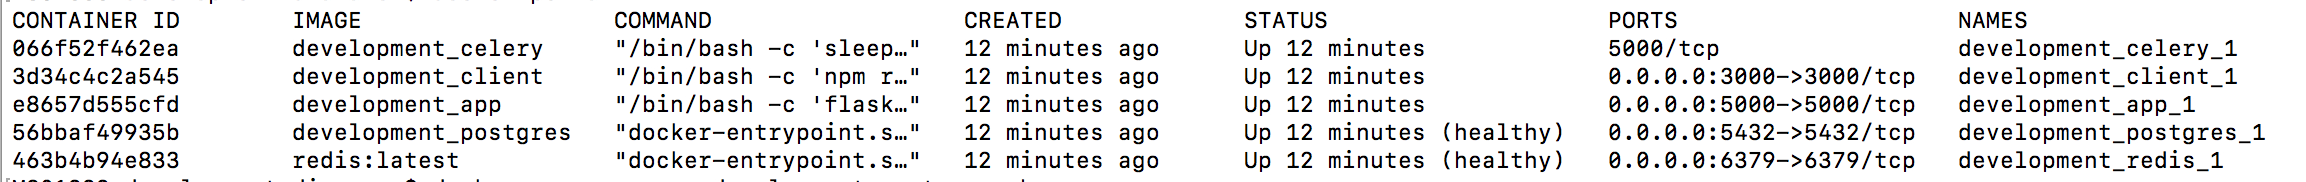
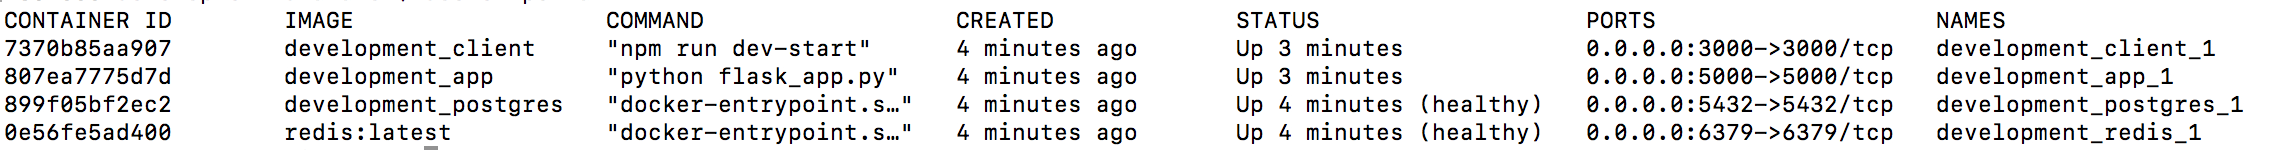
updated README.md, changed docker-compose-prod to remove npm build

diff --git a/README.md b/README.md
@@ -4,6 +4,8 @@ A full-stack dockerized web application to visualize Formula 1 race statistics f
 
 ## Hosted at: www.notforcasualfans.com
 
+![mystack](https://github.com/dianaow/celery-scheduler/blob/master/misc/mystack.png) 
+
 ## Data Source
 - Thanks to the Ergast Developer API (https://ergast.com/mrd/), which provides data for the Formula 1 series and is updated after the conclusion of each race.
 
@@ -34,7 +36,7 @@ This way, we can leverage React for SVG structure and rendering optimizations an
 ## Setup
 This setup is built for deployment with Docker. 
 
-**1. Clone the repository**
+### **1. Clone the repository**
 
 ```bash
 cd ~
@@ -42,12 +44,12 @@ git clone https://github.com/dianaow/.git
 cd celery-scheduler
 ```
 
-**2. Install Docker**
+### **2. Install Docker**
 
 - [Mac or Windows](https://docs.docker.com/engine/installation/)
 - [Ubuntu server](https://www.digitalocean.com/community/tutorials/how-to-install-and-use-docker-on-ubuntu-16-04)
 
-**3. Build docker images with docker-compose and run it.**
+### **3. Build docker images with docker-compose and run it.**
 
   Configuration folder architecture:
   ```
@@ -85,54 +87,63 @@ cd celery-scheduler
   - --build: Build images before creating containers.
   
   
-**3a) Check logs for successful build and run of docker containers**
-  ```
+### **4) Check logs for successful build and run of docker containers**
+```
   docker-compose logs
-  ```
- Please refer to this repo's wiki for screenshots of what you should see from the console.
- 
-**3b) Loading database with data**
+```
 
- I am unable to succesfully use an entrypoint script to initialize database with data, hence the workaround will be to manually load data from command line instead.
+Please refer to this repo's wiki for screenshots of what you should see from the console.
  
- **i.** Check the list of running containers 
- ```
- docker ps -a
- ```
+### **5) Loading database with data**
 
- ![docker_compose_ps_a](https://github.com/dianaow/celery-scheduler/blob/master/misc/docker_compose_ps_a.png) 
+I am unable to succesfully use an entrypoint script to initialize database with data, hence the workaround will be to manually load data from command line instead.
+ 
+#### **a.** Check the list of running containers 
+```
+  docker ps -a
+```
 
- **ii.** To run bash command in docker container, enter ```docker exec -i -t <CONTAINER_ID> /bin/bash```
+![docker_compose_ps_a](https://github.com/dianaow/celery-scheduler/blob/master/misc/docker_compose_ps_a.png) 
+
+#### **b.** To run bash command in docker container, enter
+```
+  docker exec -i -t <CONTAINER_ID> /bin/bash
+```
  
-   &nbsp;&nbsp;&nbsp;&nbsp;&nbsp; In this case, run ```docker exec -i -t 56bbaf49935b /bin/bash``` (Note: my CONTAINER ID will be different from yours, so don't copy-paste)
+In this case, run ```docker exec -i -t 899f05bf2ec2 /bin/bash``` (Note: my CONTAINER ID will be different from yours)
  
- **iii.** Run below command to dump 'init.psql' to the database
+#### **c.** Run below command to dump 'init.psql' to the database
  
-   &nbsp;&nbsp;&nbsp;&nbsp;&nbsp; ```psql --host=localhost --port=5432 --username=test_user --password --dbname=f1_flask_db < ../init.psql```
+```psql --host=localhost --port=5432 --username=test_user --password --dbname=f1_flask_db < ../init.psql```
  
-   &nbsp;&nbsp;&nbsp;&nbsp;&nbsp; You will then be prompted for the password for test_user, which is **'test_pw'**
+You will then be prompted for the password for test_user, which is **'test_pw'**
  
- **iv.** Log into the database. Try querying it!
+#### **d.** Log into the database. Try querying it!
  
- ![docker_command_psql](https://github.com/dianaow/celery-scheduler/blob/master/misc/docker_command_psql.png) 
+![docker_command_psql](https://github.com/dianaow/celery-scheduler/blob/master/misc/docker_command_psql.png) 
  
  
-  **You may now point your browser to http://localhost:3000 to view the frontend**
-  **You may now point your browser to http://localhost:5000/api/results or view the APIs**
+**You may now point your browser to http://localhost:3000 to view the frontend**
+**You may now point your browser to http://localhost:5000/api/results or view the APIs**
 
 
- **3c) Initialize task scheduler with celery**
+### **6) Initialize task scheduler with celery**
  
-  &nbsp;&nbsp;&nbsp;&nbsp;&nbsp; **i.** Based on the last step, we should still be in 'development_postgresql' container. Exit from postgresql by entering '\q'. Exit from container by entering 'exit'. Next, identify the "development_app" container id and enter it (similar to steps 3b.1 and 3b.2).
+#### **a.** Based on the last step, we should still be in 'development_postgresql' container. Exit from postgresql by entering '\q'. Exit from container by entering 'exit'. Next, identify the "development_app" container id and enter it (similar to steps 3b.1 and 3b.2).
 
-  &nbsp;&nbsp;&nbsp;&nbsp;&nbsp; **ii.** Trigger the below command: ```celery -A app.tasks worker -B -l info```
+#### **b.** Trigger the below command: 
+```
+  celery -A app.tasks worker -B -l info
+```
   
-  &nbsp;&nbsp;&nbsp;&nbsp;&nbsp; That's it! For testing purpose, i have set celerybeat to trigger task to data collect every 15 minutes.
+That's it! For testing purpose, i have set celerybeat to trigger task to data collect every 15 minutes.
 
- **4) To stop running of docker containers and remove them**
-  ```
+### **7) To stop running of docker containers and remove them**
+```
   docker-compose down
-  ```
+```
+
+![docker_compose_down](https://github.com/dianaow/celery-scheduler/blob/master/misc/docker_compose_down.png)
   
   
 **For enquiries, you may contact me at diana.ow@gmail.com**
